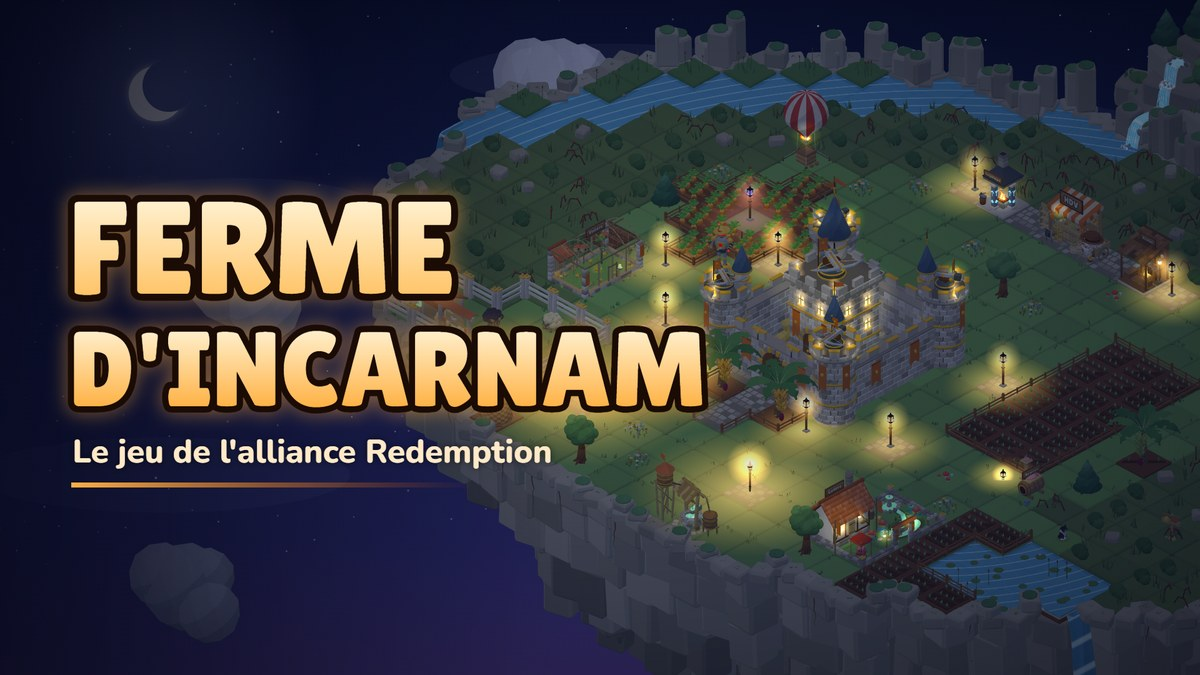
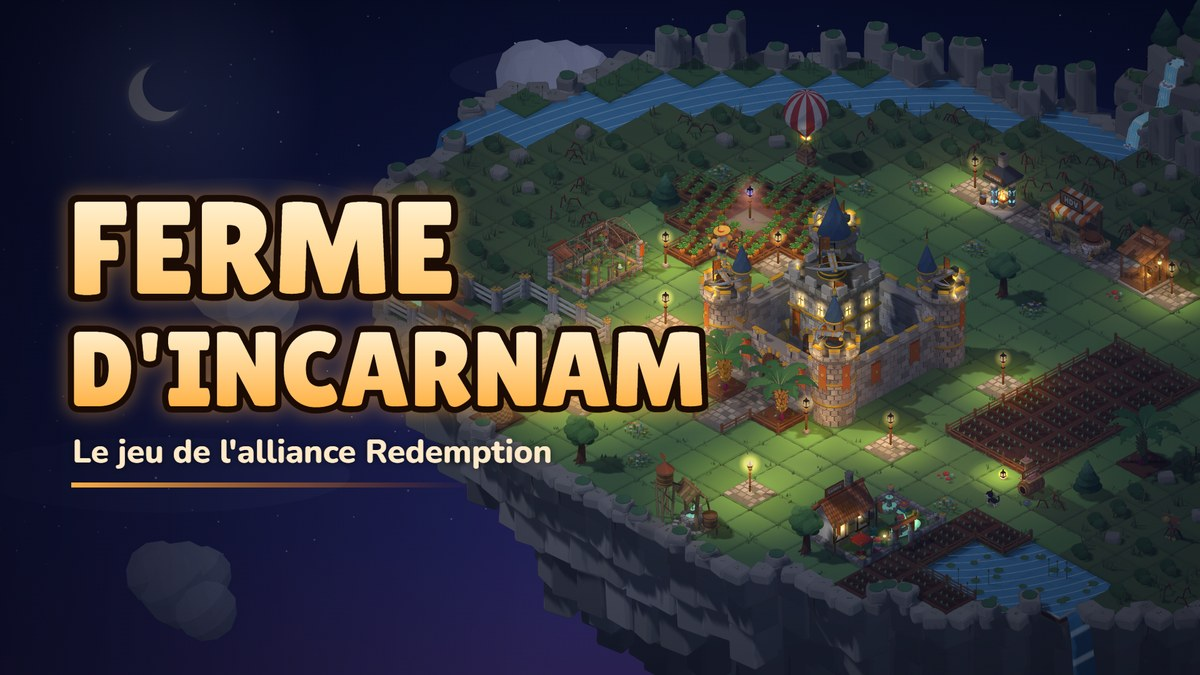
Ferme : image de partage de nuit refaite en graphismes complets (ombres, contours, vraies lumieres)

diff --git a/site/ferme/index.html b/site/ferme/index.html
@@ -13,13 +13,13 @@
 <meta property="og:title" content="Ferme d'Incarnam">
 <meta property="og:description" content="Le jeu de l'alliance Redemption : cultive ta ferme, élève tes bêtes et défends-la contre les vagues de monstres.">
 <meta property="og:url" content="https://redemption-alliance.vercel.app/ferme/">
-<meta property="og:image" content="https://redemption-alliance.vercel.app/ferme/assets/icones/partage-ferme.jpg?v=20261114">
+<meta property="og:image" content="https://redemption-alliance.vercel.app/ferme/assets/icones/partage-ferme.jpg?v=20261114b">
 <meta property="og:image:width" content="1200">
 <meta property="og:image:height" content="675">
 <meta property="og:image:alt" content="La Ferme d'Incarnam : une île flottante avec son château, ses cultures et ses moutons">
 <meta name="twitter:card" content="summary_large_image">
 <meta name="twitter:title" content="Ferme d'Incarnam">
-<meta name="twitter:image" content="https://redemption-alliance.vercel.app/ferme/assets/icones/partage-ferme.jpg?v=20261114">
+<meta name="twitter:image" content="https://redemption-alliance.vercel.app/ferme/assets/icones/partage-ferme.jpg?v=20261114b">
 <link rel="manifest" href="manifest.webmanifest">
 <meta name="theme-color" content="#8fd3f4">
 <meta name="mobile-web-app-capable" content="yes">

diff --git a/site/ferme/maj/index.html b/site/ferme/maj/index.html
@@ -84,7 +84,7 @@ footer { text-align: center; color: var(--doux); font-size: .8rem; padding: 0 16
 <body>
 <header class="haut">
   <div class="banniere">
-    <img src="../assets/icones/partage-ferme.jpg?v=20261114" alt="La Ferme d'Incarnam de nuit : une île flottante, son château éclairé, ses champs et ses lanternes" width="1200" height="675">
+    <img src="../assets/icones/partage-ferme.jpg?v=20261114b" alt="La Ferme d'Incarnam de nuit : une île flottante, son château éclairé, ses champs et ses lanternes" width="1200" height="675">
   </div>
   <div class="titre-page">
     <div><h1>Les nouveautés</h1><p class="sous">Chaque mise à jour du jeu, la plus récente en haut.</p></div>
